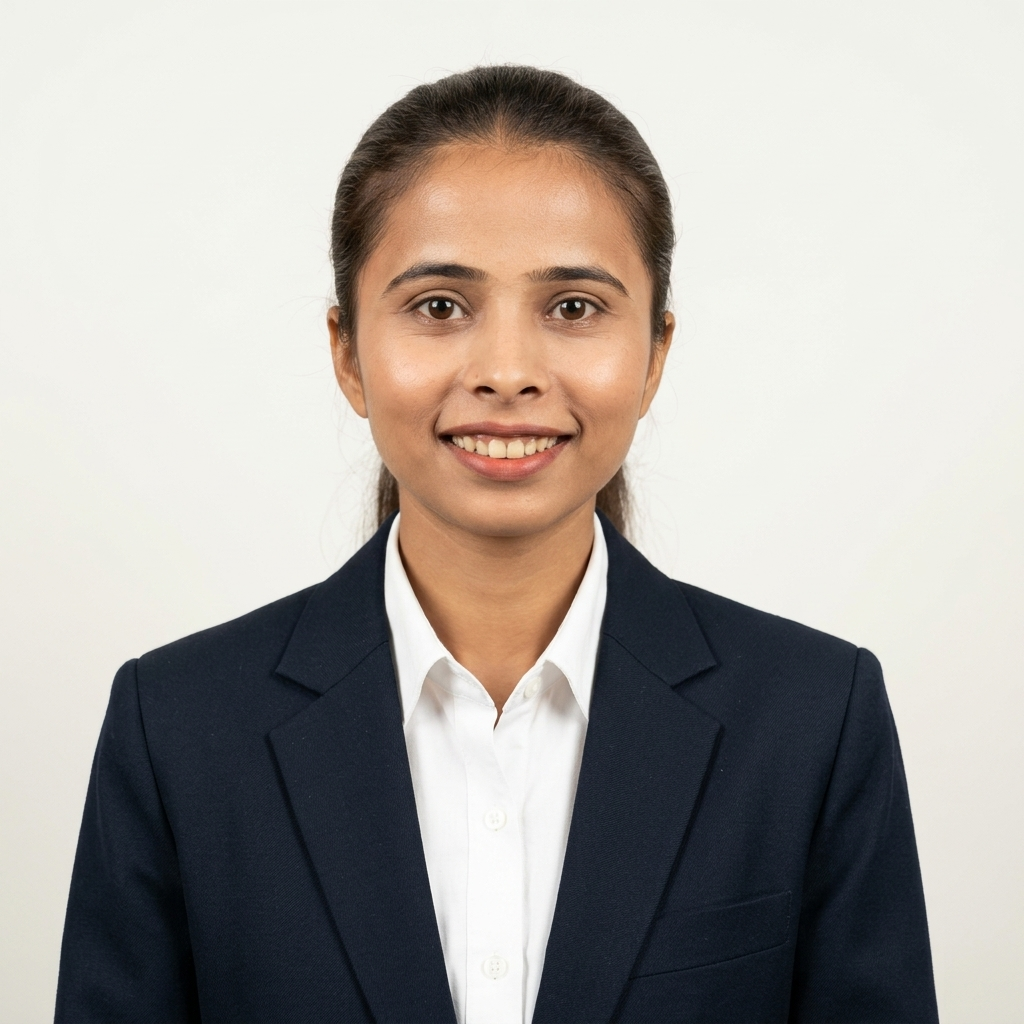
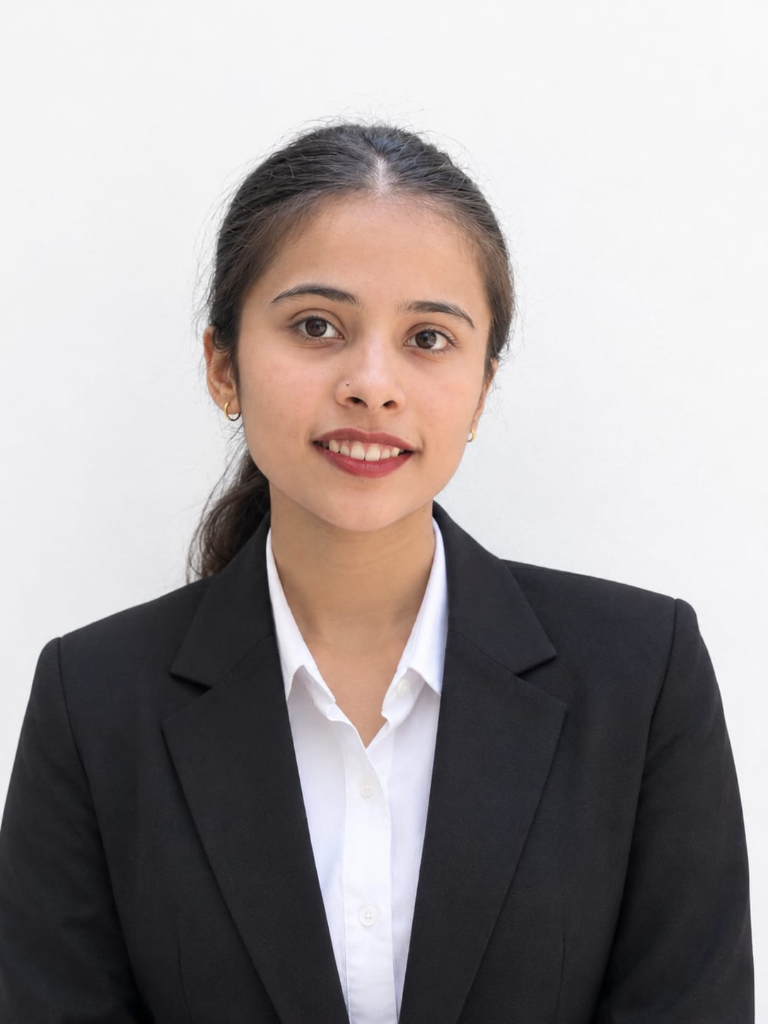
updated

diff --git a/src/Components/Hero.jsx b/src/Components/Hero.jsx
@@ -195,7 +195,7 @@ const Hero = ({ onOpenResume }) => {
                 <img
                   src={profilePhoto}
                   alt={portfolioData.personal.name}
-                  className="w-full h-full object-cover object-center"
+                  className="w-full h-full object-cover object-top"
                 />
               </div>
 
